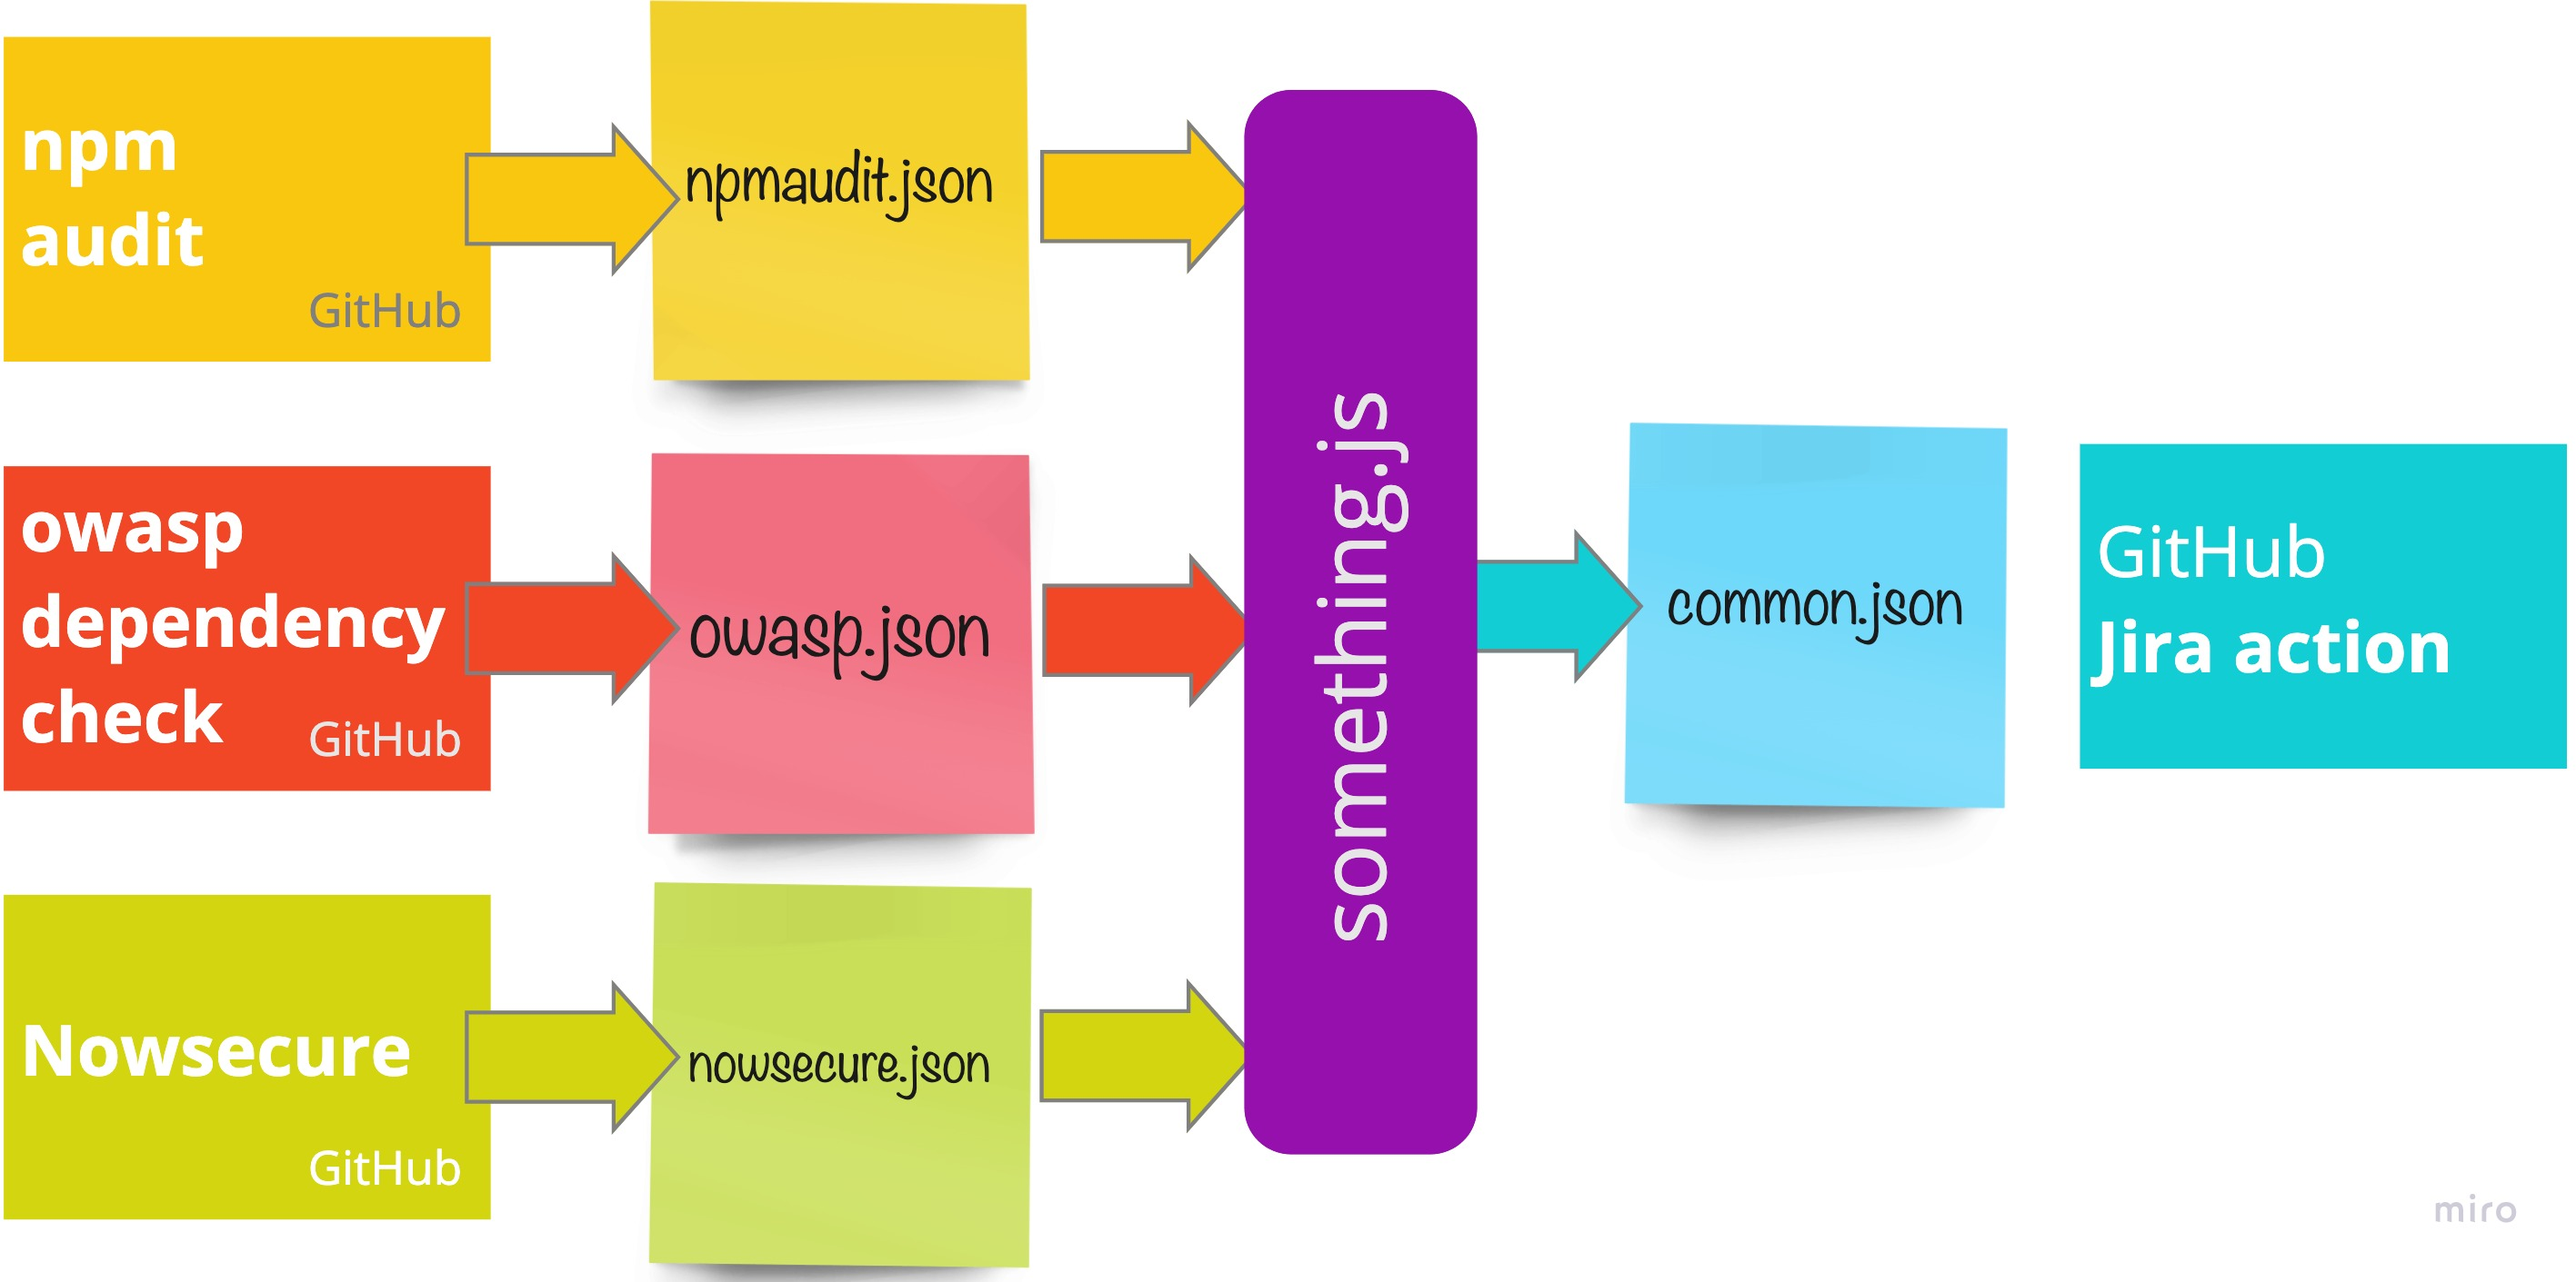
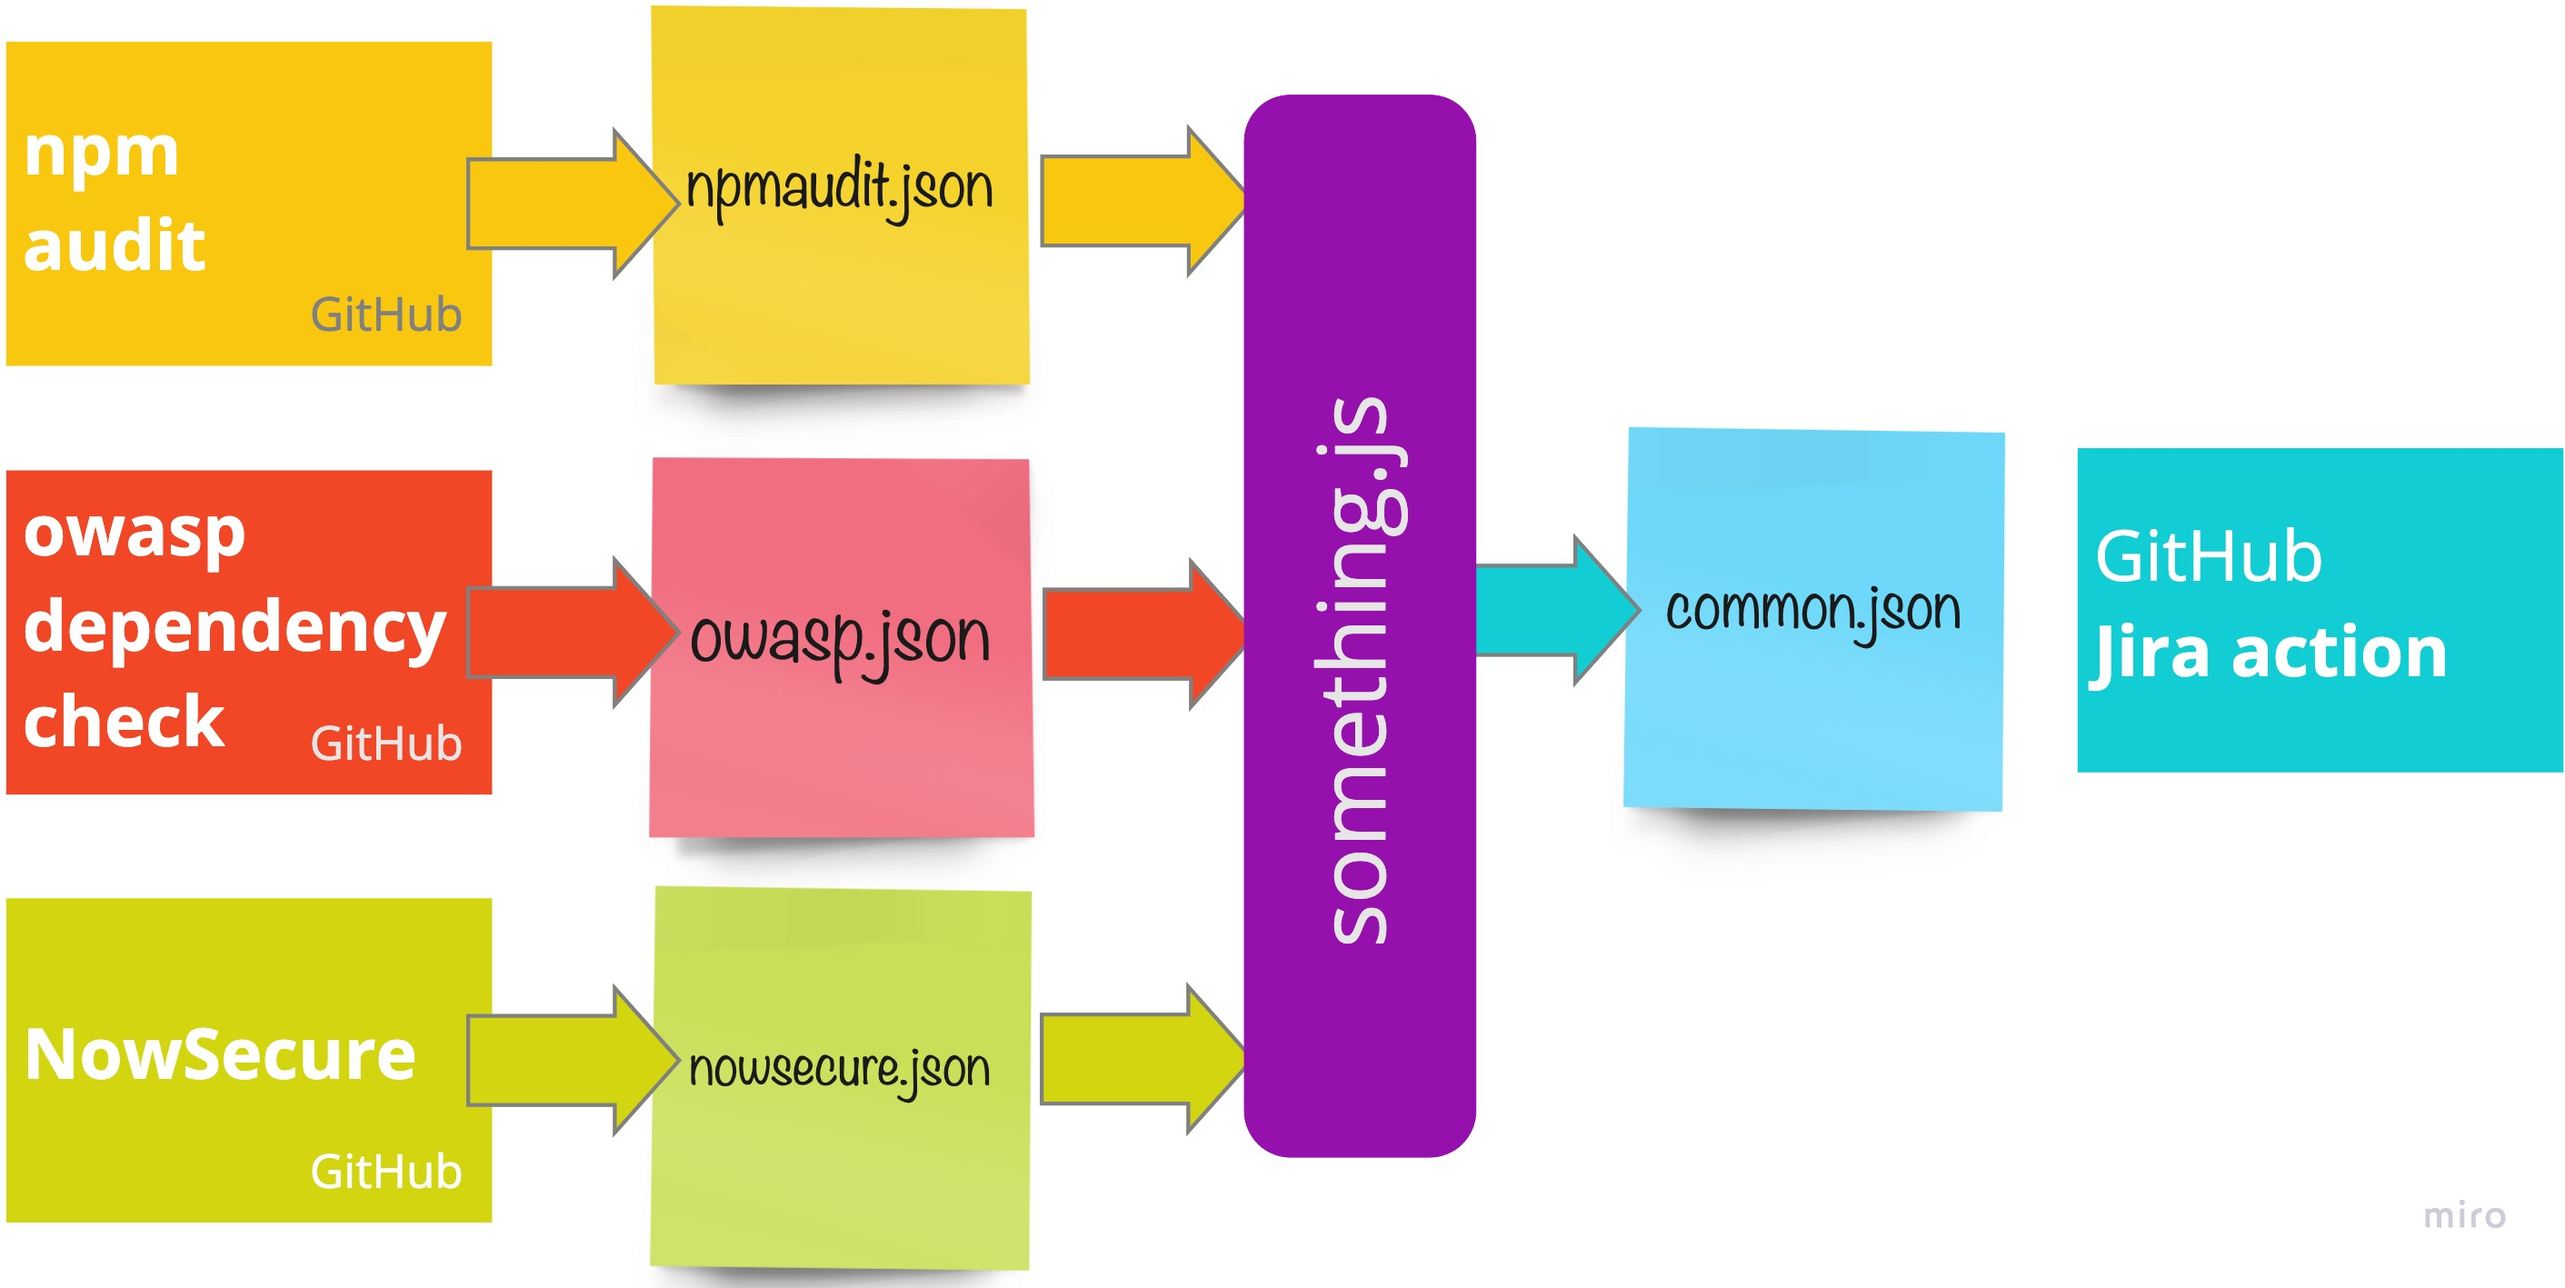
fix for #1

diff --git a/src/index.html b/src/index.html
@@ -59,7 +59,7 @@
               <li>Large reports generated from security scanners</li>
               <li>Need to transform from various tools into a common format</li>
               <li>Common format to be processed further in CI workflow</li>
-              <li>Inforation should be picked àla Carte</li>
+              <li>Information should be picked àla Carte</li>
               <li>'Denormalize' nesting</li>
             </ul>
           </section>
@@ -67,6 +67,12 @@
             <h2 style="color: orange; text-align: left;">It looks like this...</h2>
             <hr color="orangered" />
             <img src="concept-overview.jpg" />
+            <p style="font-size: large; text-align: left; font-style: italic; margin-right: 3em;">
+              <a href="https://www.nowsecure.com/" target="_blank">NowSecure</a>
+            </p>
+            <p style="font-size: large; text-align: left; font-style: italic; margin-right: 3em;">
+              <a href="https://github.com/marketplace/actions/jira-ticket-creation" target="_blank">GitHub Jira action</a>
+            </p>
           </section>
           <section data-background-image="must-all-fmj.gif">
             <h2 style="color: orange; text-align: left;">But why bother?</h2>
